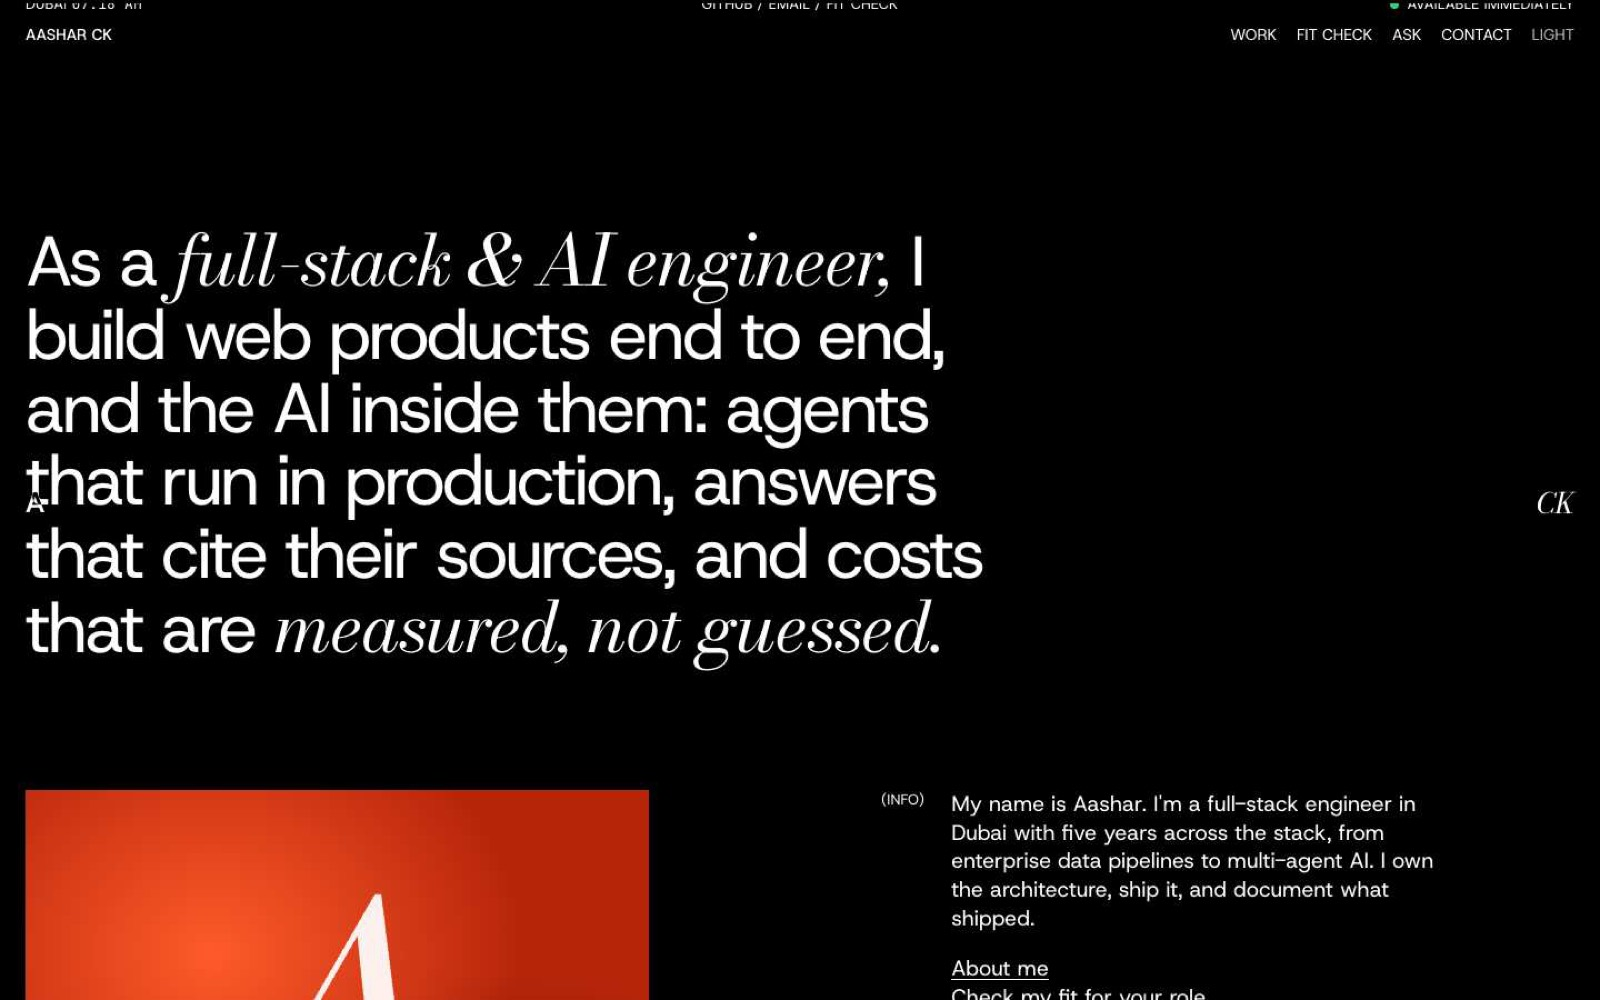
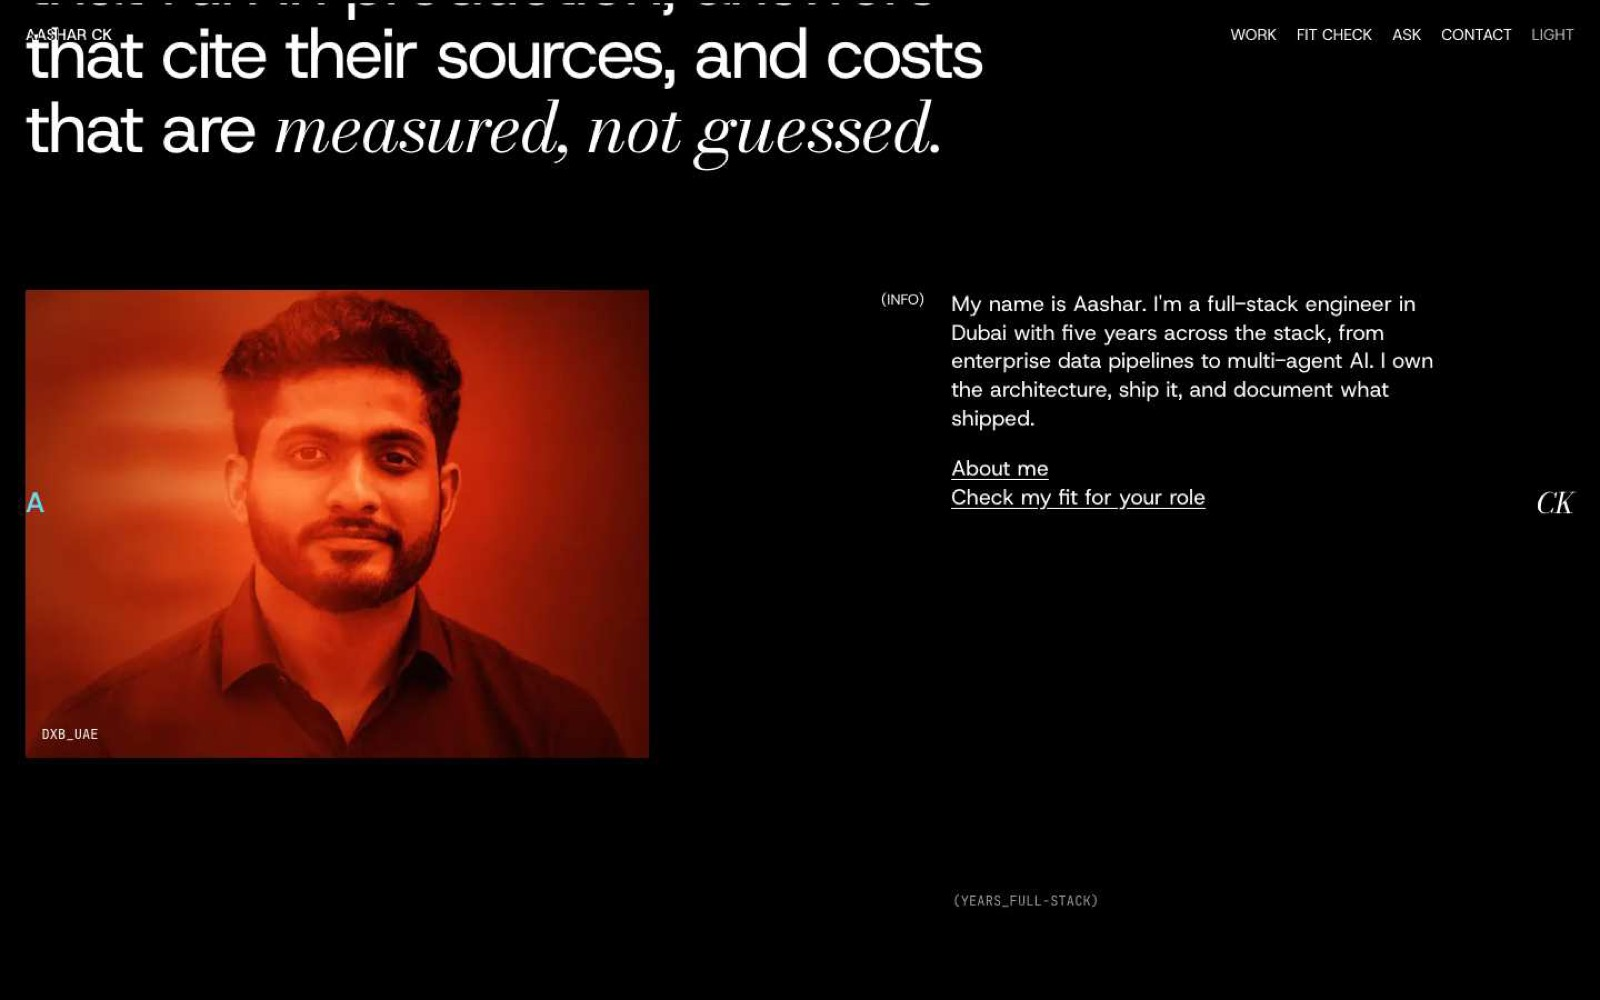
Portrait in the (Info) block, styled like the reference
Red gradient-mapped headshot with a motion smear, grain and vignette;
phone fixes (cover panel overlap, info link tap size).

diff --git a/src/app/page.tsx b/src/app/page.tsx
@@ -158,10 +158,16 @@ export default function Home() {
             that are <em>measured, not guessed.</em>
           </h2>
           <div className="about-grid">
-            <div className="about-mark" aria-hidden="true">
-              <em>A</em>
-              <span className="caps mono">DXB_UAE</span>
-            </div>
+            <figure className="about-mark">
+              <Image
+                src="/work/aashar-red.jpg"
+                alt="Portrait of Aashar CK"
+                width={1254}
+                height={940}
+                sizes="(max-width: 860px) 100vw, 40vw"
+              />
+              <figcaption className="caps mono">DXB_UAE</figcaption>
+            </figure>
             <span className="caps about-label">(Info)</span>
             <div className="about-text">
               <p>

diff --git a/src/app/globals.css b/src/app/globals.css
@@ -1173,10 +1173,13 @@ textarea {
   overflow: hidden;
   color: #fff;
 }
-.about-mark em {
-  font-size: clamp(8rem, 20vw, 18rem);
-  line-height: 1;
-  opacity: 0.92;
+.about-mark {
+  margin: 0;
+}
+.about-mark img {
+  width: 100%;
+  height: 100%;
+  object-fit: cover;
 }
 .about-mark .mono {
   position: absolute;
@@ -1193,6 +1196,8 @@ textarea {
   max-width: 28rem;
 }
 .about-text a {
+  display: inline-block;
+  padding: 0.25rem 0;
   text-decoration: underline;
 }
 .numeral {
@@ -1555,4 +1560,11 @@ html.motion-on .services-list li.is-on strong {
 }
 .contact .monogram em {
   margin-left: 0;
+}
+
+/* phones: the cover panel sits in normal flow (the project above isn't pinned) */
+@media (max-width: 860px) {
+  .cover {
+    margin-top: 0;
+  }
 }

diff --git a/DECISIONS.md b/DECISIONS.md
@@ -67,4 +67,4 @@ Made while Aashar was away. Each one is easy to reverse; the reason is next to i
 - **Third pass: art-yakushev.com only** (Aashar: drop wodniack and olhalazarieva, remove the text ring, add his animations, make scrolling readable). The text ring and the WORK letter wall are gone. His site was inspected (scripts, sticky elements, a 25-frame scroll filmstrip): it uses GSAP (ScrollTrigger, SplitText, ScrambleText) and Lenis. We use the same libraries (GSAP 3.15 has all three plugins free on npm; Lenis 1.3), loaded after first paint, skipped under reduced motion, with initial states set only from JS so the page reads fully without JavaScript. The page now follows his sequence:
   hero (name letters rise; the soft background blurs away on scroll) → about statement whose words sharpen from a blur as you scroll (grey to white, so contrast holds at every frame) → giant "5+" rising → featured SitesGen that grows from a small tilted card to full screen and pins, with a scrambled-text details bar → a "20–26 ©" panel that slides over it → "All (04)" work on a red glow → fit check → ask → services list that lights up item by item while its title stays put → experience → security → contact footer revealed from underneath. Fixed "A" / "CK" marks sit at the middle of each edge (desktop).
   - Phones get no pinning or growing: the project is a normal image with its details below (a full-screen crop of a landscape screenshot was unreadable).
-  - **Placeholder:** the red block with an italic "A" in the (Info) section stands where his portrait is. Send a photo and it goes there.
+  - **Portrait:** Aashar's headshot (photo 1 of 2 he sent: frontal, higher resolution, crops cleanly to 4:3) processed like the reference portrait: red gradient map with an S-curve, a horizontal motion smear dragging out of the left side, film grain and a vignette. Done in headless Chrome's canvas (`public/work/aashar-red.jpg`, 166 KB); the original photo is not in the repo.
